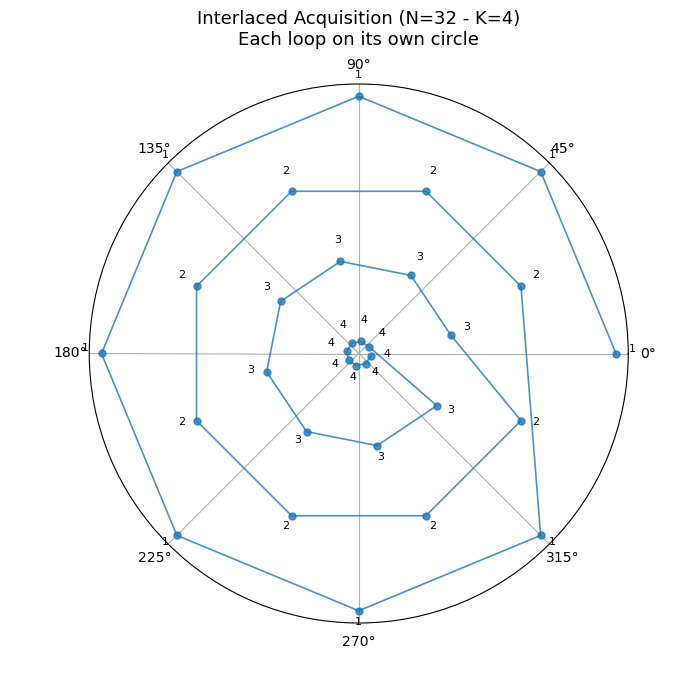
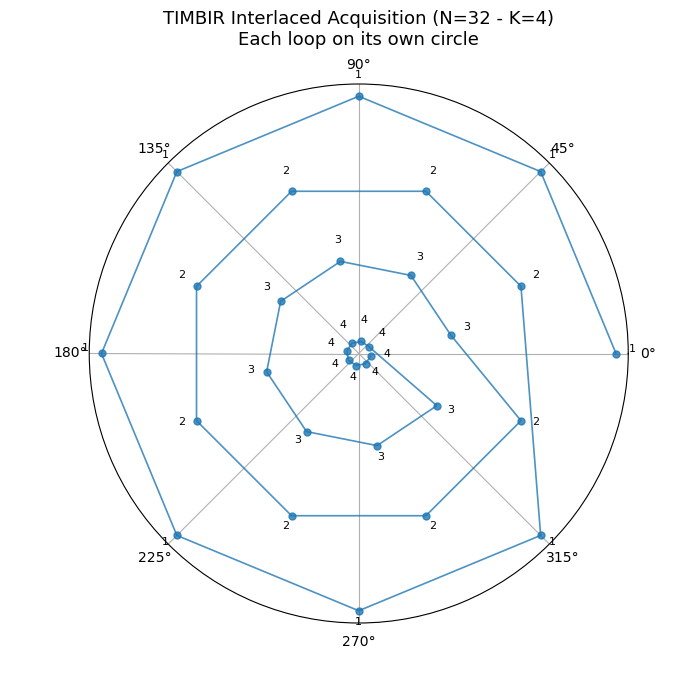
update image

Changed region(s): [[0.24, 0.0, 0.78, 0.06]]

diff --git a/interlaced_angles_timbir.py b/interlaced_angles_timbir.py
@@ -45,7 +45,7 @@ radii = r_outer - loop_indices * r_step  # all points in the same loop share rad
 # ------------------------
 fig = plt.figure(figsize=(7,7))
 ax = fig.add_subplot(111, polar=True)
-ax.set_title(f"Interlaced Acquisition (N={N_theta} - K={K})\nEach loop on its own circle", va='bottom', fontsize=13)
+ax.set_title(f"TIMBIR Interlaced Acquisition (N={N_theta} - K={K})\nEach loop on its own circle", va='bottom', fontsize=13)
 
 # Connect points in true acquisition order
 ax.plot(angles, radii, '-o', lw=1.2, ms=5, alpha=0.8, color='tab:blue')
